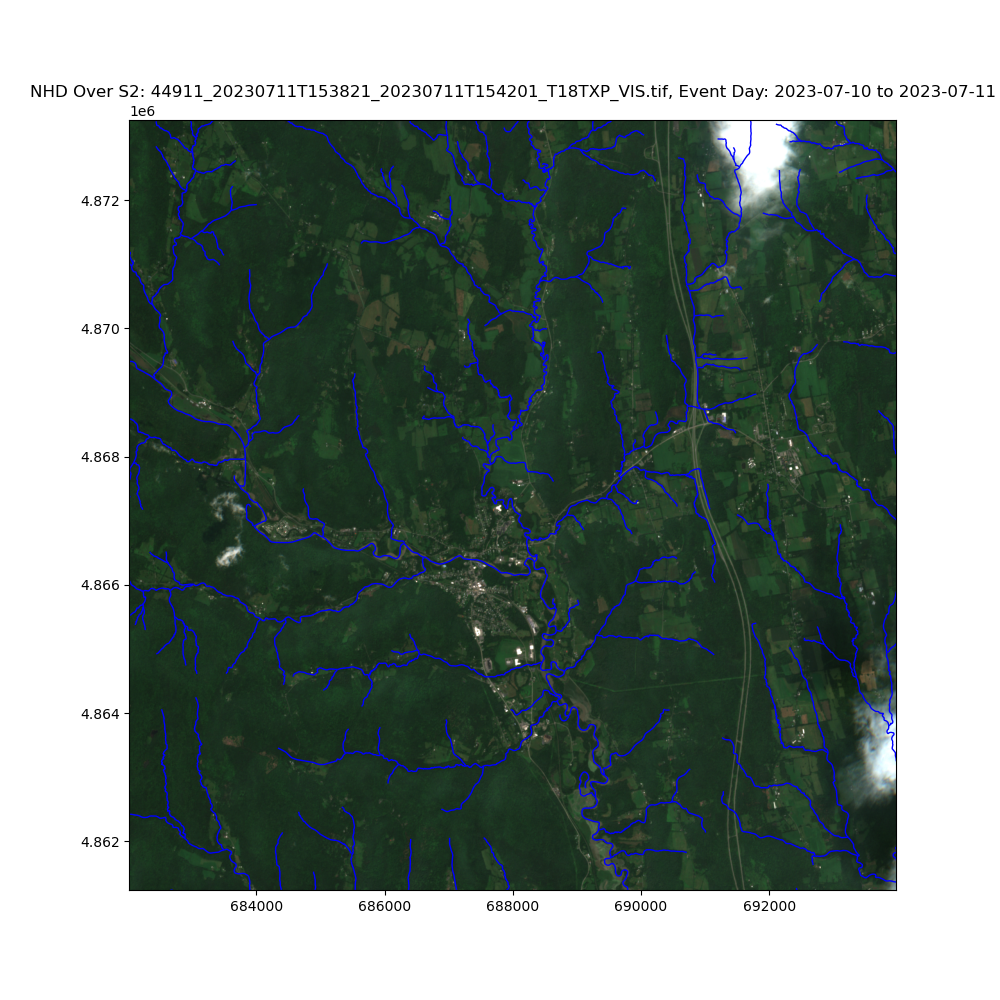
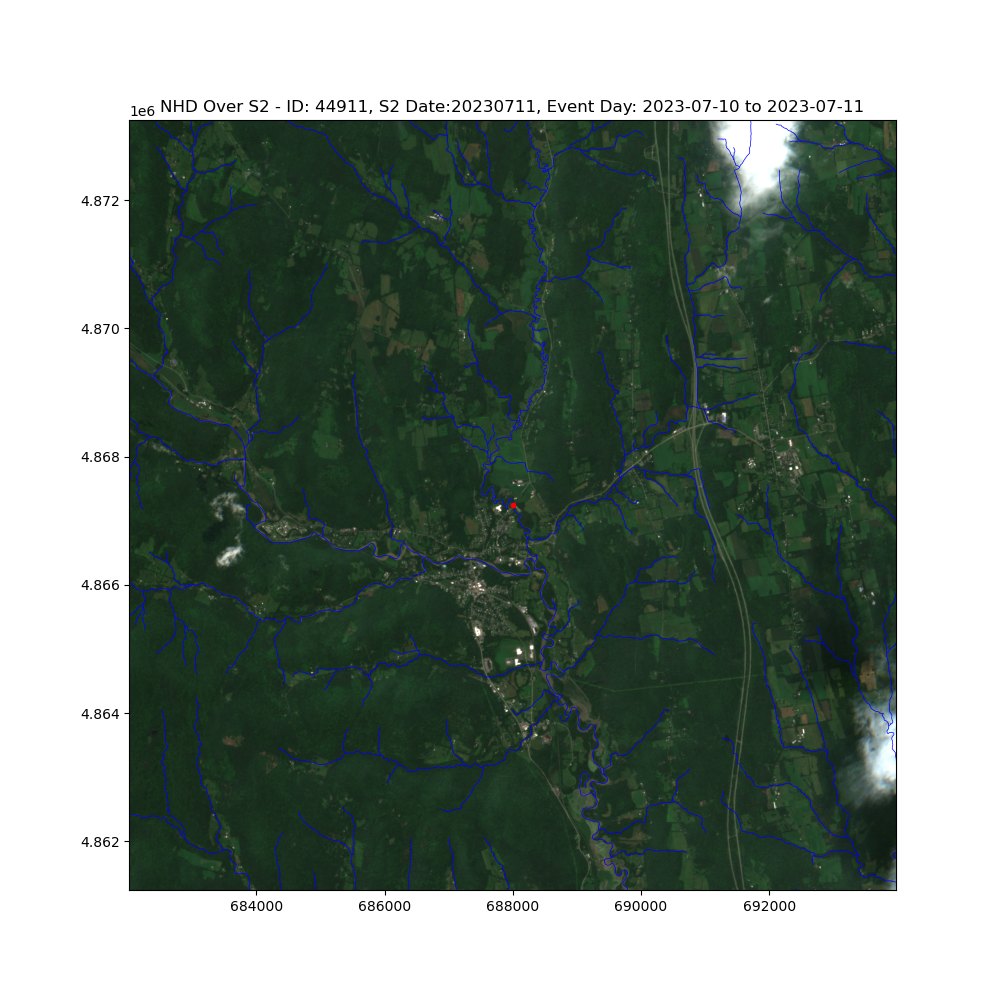
nhd part complete

diff --git a/src/utils/nhd_utils.py b/src/utils/nhd_utils.py
@@ -1,0 +1,114 @@
+"""
+This script includes the functions related to National Hydrography Dataset. 
+
+This script can be imported as a module and includes the following functions:
+    * download_nhd_shape - downloads the National Hydrography Dataset Flowline for specified states;
+    * add_nhd_layer_s2 - plots the NHD flowlines on top of Sentinel-2 images during flood events for visual inspection.
+"""
+
+# import libraries
+import os
+import requests
+import zipfile
+import rasterio
+import geopandas as gpd
+from pyproj import Transformer
+from utils import global_utils
+from rasterio.plot import show
+import matplotlib.pyplot as plt
+
+def download_nhd_shape(area_list, content_list):
+    """
+    Download the National Hydrography Dataset Flowline for specified states
+
+    Args:
+        area_list (list of str): The specified states for which NHD data needs to be collected
+        content_list: The specified components of the NHD data
+    """
+    global_utils.print_func_header('download NHD')
+    for i in area_list:
+
+        # construct URL to download NHD (e.g., https://prd-tnm.s3.amazonaws.com/StagedProducts/Hydrography/NHD/State/Shape/NHD_H_Vermont_State_Shape.zip)
+        url = f'https://prd-tnm.s3.amazonaws.com/StagedProducts/Hydrography/NHD/State/Shape/NHD_H_{i}_State_Shape.zip'
+
+        # download the ZIP file to the specified directory
+        dir = f'data/nhd/{i}'
+        os.makedirs(dir, exist_ok=True)
+        name = os.path.basename(url)
+        file_path = os.path.join(dir, name)
+        res = requests.get(url)
+        with open(file_path, 'wb') as f:
+            f.write(res.content)
+        print(f'download NHD for {i} - {name}')
+
+        # extract the flowline-related files 
+        with zipfile.ZipFile(file_path, 'r') as z:
+            contents = z.namelist()
+            
+            for item in content_list:
+                if item in contents:
+                    z.extract(item, dir)
+                    print(f'\nextract {i} {item}')
+
+        # delete the ZIP file
+        os.remove(file_path)
+
+    # explore the contents within the ZIP file
+    print(f'list all contents within the ZIP file for {i}')
+    print(contents)
+
+def add_nhd_layer_s2(df, area, area_abbr_list):
+    '''
+    Plot the NHD flowlines on top of Sentinel-2 images during flood events for visual inspection
+
+    Args:
+        df (pd.DataFrame): The selected DataFrame used to add NHD flowline layer
+        area (list of str): The specified area (state)
+        area_abbr_list (dict): A dictionary mapping full state names to their abbreviations
+    '''
+    global_utils.print_func_header('add NHD flowline above Sentinel-2 and plot the result')
+    for i in area:
+
+        # read the shapefile into a GeoDataFrame
+        shp_path = f'data/nhd/{i}/Shape/NHDFlowline.shp'
+        gdf = gpd.read_file(shp_path)
+
+        # filter the DataFrame for the current state's data during the flood event
+        i_abbr = area_abbr_list[i]
+        df_i = df[df['state'] == i_abbr]
+        df_i = df_i[df_i['period'] == 'during flood']
+        for index, row in df_i.iterrows():
+
+            # extract the location of the current observation (will be plotted)
+            lat = row['latitude']
+            lon = row['longitude']
+
+            # open the Sentinel-2 image
+            tif_path = os.path.join(row['dir'], row['filename'])
+            output_file = row['filename'].replace('_VIS.tif', '_NHD')
+            with rasterio.open(tif_path) as src:
+                tiff_crs = src.crs # coordinate reference system of the TIFF (EPSG:32618)
+                bounds = src.bounds # bounding box of the TIFF (e.g., BoundingBox(left=619740.0, bottom=4606360.0, right=631690.0, top=4618360.0))
+
+                fig, ax = plt.subplots(figsize=(10, 10))
+
+                # show the Sentinel-2 image
+                show(src, ax=ax)
+
+                # transform the GeoDataFrame's CRS (EPSG:4269) to match the TIFF CRS 
+                if gdf.crs != tiff_crs:
+                    gdf = gdf.to_crs(tiff_crs)
+
+                gdf.plot(ax=ax, color='blue', linewidth=0.5)
+
+                ax.set_xlim(bounds.left, bounds.right)
+                ax.set_ylim(bounds.bottom, bounds.top)
+
+                transformer = Transformer.from_crs("EPSG:4326", tiff_crs, always_xy=True)
+                raster_x, raster_y = transformer.transform(lon, lat)
+                ax.plot(raster_x, raster_y, 'ro', markersize=3, zorder=3)
+                plt.title(f"NHD Over S2 - ID: {row['id']}, S2 Date:{row['date']}, Event Day: {row['event_day']}")
+
+                plt.savefig(f'figs/s2_nhd/{output_file}.png')
+                plt.close()
+            print(f"complete - {row['filename']}")

diff --git a/src/nhd.py b/src/nhd.py
@@ -1,98 +1,32 @@
 """
-This script is used to collect and explore National Hydrography Dataset for the specified states.
+This script is used to collect and explore the National Hydrography Dataset for specified states.
+
+The National Hydrography Dataset will be used to analyze the Sentinel-2 images and identify potential flooding areas
 """
 # import libraries
-import os
 import time
-import requests
-import zipfile
-import rasterio
 import pandas as pd
-from utils import global_utils
-import geopandas as gpd
-from rasterio.plot import show
-import matplotlib.pyplot as plt
+from utils import global_utils, nhd_utils
 
 # track the runtime
 start = time.time()
 print('\nSTART - NHD DATA COLLECTION AND PLOTTING\n')
 
-# identify the state to be selected
+# identify the states for which NHD data needs to be collected
 area_abbr_list = global_utils.area_abbr_list
 df = pd.read_csv('data/s2.csv')
 area_in_df = df['state'].unique().tolist()
 area_list = [state for state, abbr in area_abbr_list.items() if abbr in area_in_df]
+
+# specify the required components (flowline) of the NHD data
+# question - There's one file called Shape/NHDFlowlineVAA.dbf. Meaning?
 content_selected = ['Shape/NHDFlowline.shp', 'Shape/NHDFlowline.shx', 'Shape/NHDFlowline.dbf', 'Shape/NHDFlowline.prj']
 
-# download and explore National Hydrography Dataset for the specified areas
-global_utils.print_func_header('download NHD')
-for i in area_list:
-    url = f'https://prd-tnm.s3.amazonaws.com/StagedProducts/Hydrography/NHD/State/Shape/NHD_H_{i}_State_Shape.zip'
-    dir = f'data/nhd/{i}'
-    os.makedirs(dir, exist_ok=True)
-    name = os.path.basename(url)
-    file_path = os.path.join(dir, name)
-    res = requests.get(url)
-    with open(file_path, 'wb') as f:
-        f.write(res.content)
-    print(f'download NHD for {i} - {name}')
+# download and extract the NHD shapefiles for specified states
+nhd_utils.download_nhd_shape(area_list, content_selected)
 
-    # utilize the last file_path (if area_list > 1) to explore the files within the ZIP archive
-    with zipfile.ZipFile(file_path, 'r') as z:
-        contents = z.namelist()
-        
-        for item in content_selected:
-            if item in contents:
-                z.extract(item, dir)
-                print(f'\nextract {i} {item}')
-
-global_utils.print_func_header('list all contents within the ZIP archive')
-print(contents)
-
-def add_nhd_layer_s2(df, area):
-    '''
-    Add NHD flowline as one layer above Sentinel-2 imagery and plot the result for inspection
-
-    Args:
-        df (pd.DataFrame): The selected DataFrame used to add NHD flowline layer
-        area (list of str): The specified area (state)
-
-    Notes:
-        Plots will be saved in figs/s2_nhd folder
-    '''
-    global_utils.print_func_header('add NHD flowline above Sentinel-2 and plot the result')
-    for i in area:
-        shp_path = f'data/nhd/{i}/Shape/NHDFlowline.shp'
-        gdf = gpd.read_file(shp_path)
-
-        i_abbr = area_abbr_list[i]
-        df_i = df[df['state'] == i_abbr]
-        df_i = df_i[df_i['period'] == 'during flood']
-        for index, row in df_i.iterrows():
-            tif_path = os.path.join(row['dir'], row['filename'])
-            output_file = row['filename'].replace('_VIS.tif', '_NHD')
-            with rasterio.open(tif_path) as src:
-                tiff_crs = src.crs
-                bounds = src.bounds
-
-                fig, ax = plt.subplots(figsize=(10, 10))
-                show(src, ax=ax)
-
-                if gdf.crs != tiff_crs:
-                    gdf = gdf.to_crs(tiff_crs)
-
-                gdf.plot(ax=ax, color='blue', linewidth=1.0)
-
-                ax.set_xlim(bounds.left, bounds.right)
-                ax.set_ylim(bounds.bottom, bounds.top)
-                plt.title(f"NHD Over S2: {row['filename']}, Event Day: {row['event_day']}")
-
-                plt.savefig(f'figs/s2_nhd/{output_file}.png')
-                plt.close()
-            print(f"complete - {row['filename']}")
-
-
-add_nhd_layer_s2(df, area_list)
+# plot the NHD flowlines on top of Sentinel-2 images for visual inspection
+nhd_utils.add_nhd_layer_s2(df, area_list, area_abbr_list)
 print('\nCOMPLETE - NHD DATA COLLECTION AND PLOTTING\n')
 
 # calculate the runtime

diff --git a/GUIDE.md b/GUIDE.md
@@ -54,4 +54,15 @@ When running `make s2`, you will receive the following output:
 ## Tools and Platforms
 
 ## Dataset Documentation
+### [National Hydrography Dataset](https://www.usgs.gov/national-hydrography)
+The ZIP file for a state's NHD dataset includes the following contents:
+```
+list all contents within the ZIP file for Vermont
+['Shape/ExternalCrosswalk.dbf', 'Shape/NHDArea.dbf', 'Shape/NHDArea.prj', 'Shape/NHDArea.shp', 'Shape/NHDArea.shx', 'Shape/NHDAreaEventFC.dbf', 'Shape/NHDAreaEventFC.prj', 'Shape/NHDAreaEventFC.shp', 'Shape/NHDAreaEventFC.shx', 'Shape/NHDFCode.dbf', 'Shape/NHDFeatureToMetadata.dbf', 'Shape/NHDFlow.dbf', 'Shape/NHDFlowline.dbf', 'Shape/NHDFlowline.prj', 'Shape/NHDFlowline.shp', 'Shape/NHDFlowline.shx', 'Shape/NHDFlowlineVAA.dbf', 'Shape/NHDLine.dbf', 'Shape/NHDLine.prj', 'Shape/NHDLine.shp', 'Shape/NHDLine.shx', 'Shape/NHDLineEventFC.dbf', 'Shape/NHDLineEventFC.prj', 'Shape/NHDLineEventFC.shp', 'Shape/NHDLineEventFC.shx', 'Shape/NHDMetadata.dbf', 'Shape/NHDPoint.dbf', 'Shape/NHDPoint.prj', 'Shape/NHDPoint.shp', 'Shape/NHDPoint.shx', 'Shape/NHDPointEventFC.dbf', 'Shape/NHDPointEventFC.prj', 'Shape/NHDPointEventFC.shp', 'Shape/NHDPointEventFC.shx', 'Shape/NHDProcessingParameters.dbf', 'Shape/NHDReachCodeMaintenance.dbf', 'Shape/NHDReachCrossReference.dbf', 'Shape/NHDSourceCitation.dbf', 'Shape/NHDStatus.dbf', 'Shape/NHDVerticalRelationship.dbf', 'Shape/NHDWaterbody.dbf', 'Shape/NHDWaterbody.prj', 'Shape/NHDWaterbody.shp', 'Shape/NHDWaterbody.shx', 'Shape/WBDHU10.dbf', 'Shape/WBDHU10.prj', 'Shape/WBDHU10.shp', 'Shape/WBDHU10.shx', 'Shape/WBDHU12.dbf', 'Shape/WBDHU12.prj', 'Shape/WBDHU12.shp', 'Shape/WBDHU12.shx', 'Shape/WBDHU14.dbf', 'Shape/WBDHU14.prj', 'Shape/WBDHU14.shp', 'Shape/WBDHU14.shx', 'Shape/WBDHU16.dbf', 'Shape/WBDHU16.prj', 'Shape/WBDHU16.shp', 'Shape/WBDHU16.shx', 'Shape/WBDHU2.dbf', 'Shape/WBDHU2.prj', 'Shape/WBDHU2.shp', 'Shape/WBDHU2.shx', 'Shape/WBDHU4.dbf', 'Shape/WBDHU4.prj', 'Shape/WBDHU4.shp', 'Shape/WBDHU4.shx', 'Shape/WBDHU6.dbf', 'Shape/WBDHU6.prj', 'Shape/WBDHU6.shp', 'Shape/WBDHU6.shx', 'Shape/WBDHU8.dbf', 'Shape/WBDHU8.prj', 'Shape/WBDHU8.shp', 'Shape/WBDHU8.shx', 'Shape/WBDLine.dbf', 'Shape/WBDLine.prj', 'Shape/WBDLine.shp', 'Shape/WBDLine.shx', 'NHD_H_Vermont_State_Shape.xml', 'NHD_H_Vermont_State_Shape.jpg']
+```
 
+The selected contents for this project are 'Shape/NHDFlowline.shp', 'Shape/NHDFlowline.shx', 'Shape/NHDFlowline.dbf', 'Shape/NHDFlowline.prj', 'Shape/NHDFlowlineVAA.dbf'. Below is an brief description of each content. As for the detailed documentation, users can visit the [NHD documentation](https://d9-wret.s3.us-west-2.amazonaws.com/assets/palladium/production/s3fs-public/atoms/files/NHD%20v2.3%20Model%20Poster%2006012020.pdf).
+- 'Shape/NHDFlowline.shp': represents the geometries;
+- 'Shape/NHDFlowline.shx': links .dbf with .shp using index data
+- 'Shape/NHDFlowline.dbf': represents the attribute data about the geometries
+- 'Shape/NHDFlowline.prj': represents the coordinate system and projection information;

diff --git a/README.md b/README.md
@@ -94,17 +94,29 @@ make eda_s2
 - The detailed analysis can be found in [REPORT.md](REPORT.md).
 
 
-### Step 5: Download and plot the specified National Hydrography Dataset
-This section collects National Hydrography Dataset for the DataFrame we saved after Step 4. 
+### Step 5: Download and plot the specified National Hydrography Dataset (DONE)
+This section collects National Hydrography Dataset for the DataFrame saved after Step 4. [The National Hydrography Dataset](https://www.usgs.gov/national-hydrography/access-national-hydrography-products) is one part of the datasets that represent the surface water of the United States. This project utilizes the flowline shapefiles from NHD to enhance the analysis of flooding areas in Sentinel-2 images. 
 
-To download and plot NHD, use the following command (estimated runtime: 6 minute):
+The National Hydrography Dataset is downloaded from the [National Map Downloader](https://apps.nationalmap.gov/downloader/). This platform allows users to download the NHD as a shapefile by Hydrologic Unit, by state, or nationally. In this project, the NHD shapefile is downloaded by state. 
+
+To download and plot the NHD, use the following command (estimated runtime: 7 minute):
 ```
 make nhd
 ```
 
-- NHDs for CT, MA, and VT are downloaded. 
-- Based on the layer on the Sentinel-2 images during flood, we can easily see the flooding area. 
-- The dataset will be used in Step 6. 
+This commands will:
+- download NHD datasets for CT, MA, and VT;
+- plot the NHD flowlines on top of Sentinel-2 images during flood events for visual inspection.
+
+**Note**: 
+- A detailed description about the downloaded NHD datsets can be found in [GUIDE.md](GUIDE.md#dataset-documentation);
+- An analysis of the plots can be found in [REPORT.md](REPORT.md);
+- Plotted figures can be found in [figs/s2_nhd](figs/s2_nhd);
+- It's possible receiving the following UserWarning when runing `gpd.read_file()`but it won't affect the analysis in this project:
+```
+lib/python3.9/site-packages/pyogrio/raw.py:196: UserWarning: Measured (M) geometry types are not supported. Original type 'Measured 3D LineString' is converted to 'LineString Z'
+  return ogr_read(
+```
 
 ### Step 6: Use KMeans clustering algorithm to segment Sentinel-2 imagery (Ongoing)
 This section runs the KMeans clustering algorithm on the cleaned image dataset. 

diff --git a/Report.md b/Report.md
@@ -108,4 +108,10 @@ event
 To understand the locations of flood events, I created a map for each state. Below is the flood events in Vermont.
 ![Vermont Flood Event Map](./figs/flood_event/map_VT.png)
 
+## National Hydrography Dataset
+To enhance the analysis of Sentinel-2 images and help improve the performance on KMeans clustering algorithms, the flowlines from National Hydrography Dataset are collected. The command `make nhd` plots the flowlines on the filtered Sentinel-2 image dataset (25 images during flood events). Below is an example of plotting the NHD flowline on top of one Sentinel-2 image.
+![NHD over S2](./figs/s2_nhd/45358_20230711T153821_20230711T154201_T18TXP_NHD.png)
+
+- In this figure, the added flowlines help distinguish the flooded area, especially in the regions where the land cover is similar to the flood-affected areas. 
+
 ## Satellite Imagery Data (Sentinel 2)
